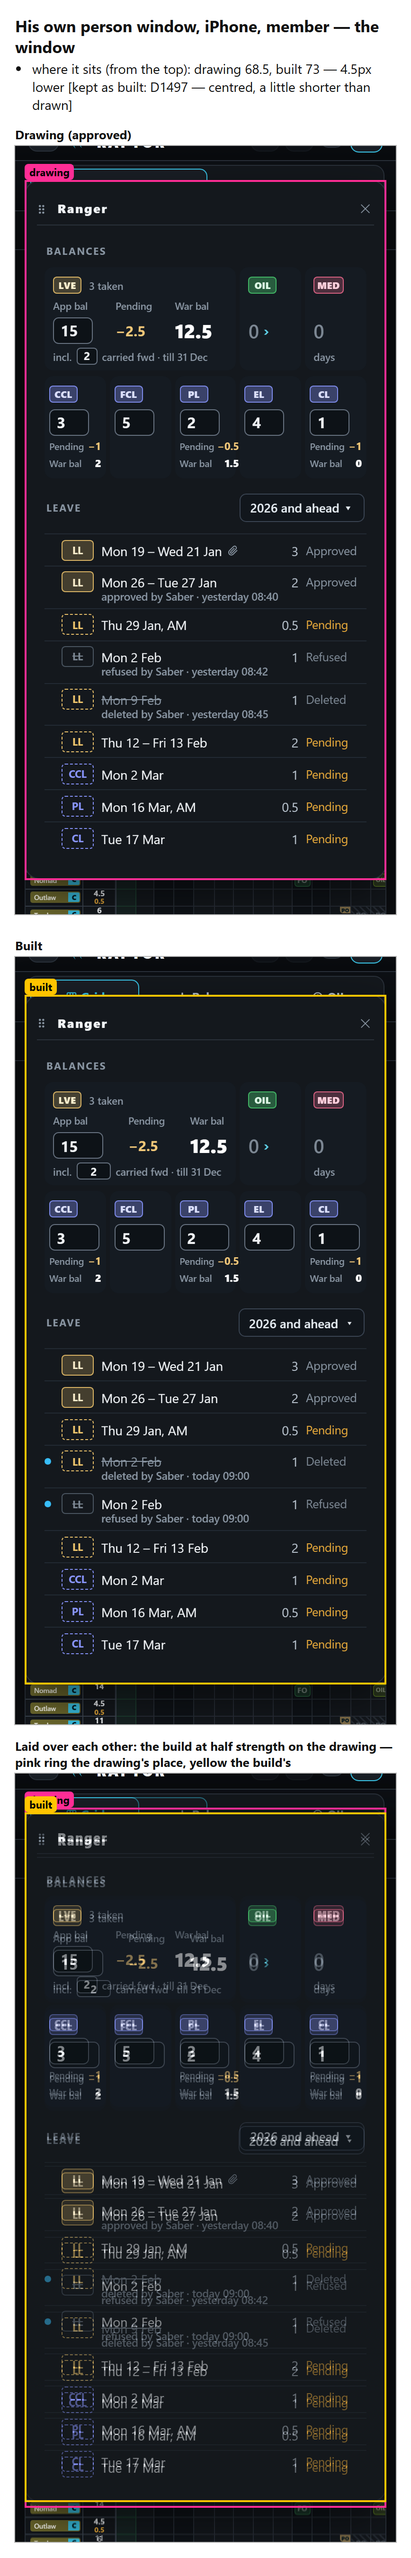
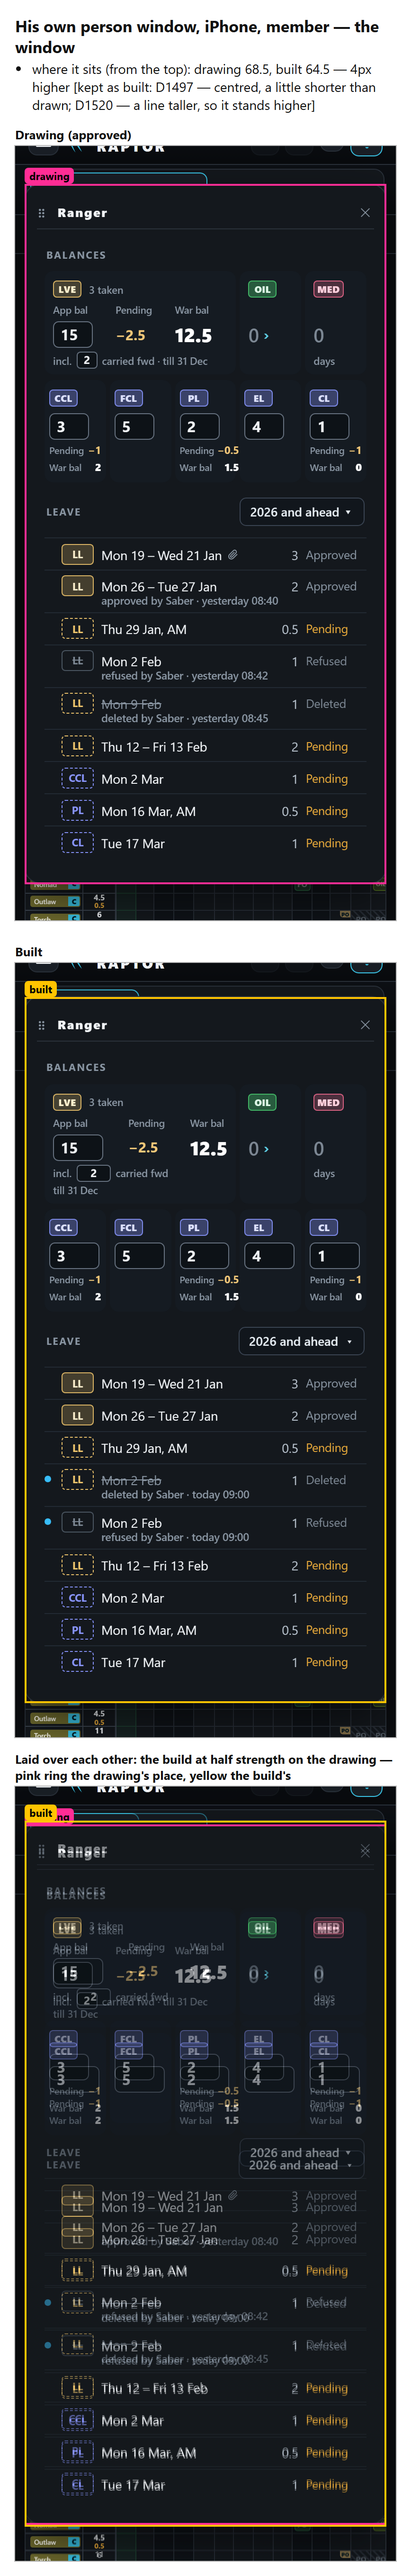
His "a" (D1520): on a phone the person window's carried line puts its date on a line of its own
A desktop keeps the approved one line. Red first in e2e (the date on its own line, both lines inside the
LVE tile at 402 and 375); the drawing check keeps the phone tile's extra line and what moves with it,
naming D1520. [LW-PW-CF-LINE] archived.

diff --git a/raptor-port/e2e/leavewar.spec.ts b/raptor-port/e2e/leavewar.spec.ts
@@ -7903,6 +7903,24 @@ test('on a phone the person window\'s War bal stays inside its LVE tile, the lon
       }, fig)
       expect(over, `${width}: War bal "${fig}" runs past its tile`).toBeLessThanOrEqual(0.5)
     }
+    /* his "a" (D1520): the carried line's date on a line of its own, so neither line runs past the tile */
+    const lines = await page.evaluate(() => {
+      const t = document.querySelector<HTMLElement>('[data-testid="pw-tile-LVE"]')!
+      const edge = t.getBoundingClientRect().right - parseFloat(getComputedStyle(t).paddingRight)
+      const out: Record<string, number | string> = {}
+      for (const sel of ['.r17-cf', '.r17-till']) {
+        const el = t.querySelector<HTMLElement>(sel)
+        if (!el || !el.getClientRects().length) { out[sel] = 'not shown'; continue }
+        const r = document.createRange(); r.selectNodeContents(el)
+        out[sel] = Math.round((r.getBoundingClientRect().right - edge) * 10) / 10
+        out[sel + ' text'] = el.innerText.trim()   // what is shown — the desktop's hidden " · till …" is not
+      }
+      return out
+    })
+    expect(lines['.r17-till text'], `${width}: the date stands on a line of its own`).toMatch(/^till \d+ [A-Z][a-z]{2}$/)
+    expect(String(lines['.r17-cf text']), `${width}: the carried line no longer carries the date`).not.toMatch(/till/)
+    expect(Number(lines['.r17-cf']), `${width}: the carried line runs past its tile`).toBeLessThanOrEqual(0.5)
+    expect(Number(lines['.r17-till']), `${width}: the date runs past its tile`).toBeLessThanOrEqual(0.5)
     await page.getByTestId('pw-close').click()
   }
 })

diff --git a/raptor-port/src/leavewar/ui/personwindow.css b/raptor-port/src/leavewar/ui/personwindow.css
@@ -105,6 +105,17 @@
        tile's left, War bal ends at its right, Pending between, never under 8 apart. A desktop keeps the drawing's 24. */
     /* the tile's one column is the tile's own width, never a longer line's inside it, so the spread reaches the tile's edge */
     @media (max-width: 700px) { .r17-lve { grid-template-columns: minmax(0, 1fr); } .r17-lve .r17-sum { column-gap: 8px; justify-content: space-between; } }
+    /* THE CARRIED LINE'S DATE (his "a", D1520 — drawn as option A, docs/mock/lw-overhaul/lw-cf-line-draw.mjs): a desktop keeps the
+       one line "incl. [n] carried fwd · till <date>"; on a phone the date stands on a fifth row of its own, in the same grey, and
+       the tile is one line taller */
+    /* (the desktop's " · till …" joins the carried words as one run, as it was before the split — no gap of the line's own) */
+    .r17-tw { display: contents; }
+    .r17-till { display: none; }
+    @media (max-width: 700px) {
+      .r17-lve { grid-template-rows: 22px 12px 30px 14px 12px; }
+      .r17-lve .r17-tw { display: none; }
+      .r17-lve .r17-till { display: block; grid-row: 5; font: 600 11px/1 system-ui; color: #8a96a3; white-space: nowrap; }
+    }
     .r17-sum .h { grid-row: 1; font: 600 10.5px/12px system-ui; color: #8a96a3; text-align: left; white-space: nowrap; }
     .r17-sum .v { grid-row: 2; display: flex; align-items: center; justify-content: flex-start; font: 700 15px/1 system-ui; font-variant-numeric: tabular-nums; color: #c9d1d9; }
     .r17-sum .v.pd { color: #F2C879; }

diff --git a/raptor-port/src/leavewar/ui/PersonWindow.tsx b/raptor-port/src/leavewar/ui/PersonWindow.tsx
@@ -217,7 +217,11 @@ export function PersonWindow({ person, since, hasRow, onClose, onOil, onGo }: {
               <span className={`v${L.pending ? ' pd' : ''}`} style={{ gridColumn: 2 }} data-testid="pw-LVE-pend">{pend(L.pending)}</span>
               <span className="v war" style={{ gridColumn: 3 }} data-testid="pw-LVE-war">{figWords(L.war)}</span>
             </div>
-            <span className="r17-cf">incl. {cf} carried fwd{till ? ` · till ${till}` : ''}</span>
+            {/* THE DATE ON A LINE OF ITS OWN ON A PHONE (his "a", D1520 — his picture: "till 31 Dec" ran into the OIL tile): the
+                desktop keeps the approved one line, its " · till …" inside the carried line; a phone shows the line below it
+                instead (personwindow.css). Only one of the two is ever shown, so a screen reader reads the date once */}
+            <span className="r17-cf">incl. {cf} carried fwd{till ? <span className="r17-tw">{` · till ${till}`}</span> : null}</span>
+            {till && <span className="r17-till" data-testid="pw-LVE-till">till {till}</span>}
           </div>
           {/* OIL: read only, "0 ›" his OIL tracker (D1209, D1008) — never a box */}
           <div className="r17-t" data-testid="pw-tile-OIL">

diff --git a/DECISIONS.md b/DECISIONS.md
@@ -70,7 +70,7 @@ ruling, or an explicit no. **Not** ordinary task instructions ("run the tests", 
 | How we work | `.claude/rules/decisions/how-we-work.md` | in EVERY session | D1518, D1509, D1508, D1507, D1496, D1495, D1494, D1478, D1443, D1426, D1424, D1417, D1416, D1415, D1411, D1410, D1409, D1408, D1407, D1363, D1297, D1104, D1103, D1281, D1273, D1271, D1262, D1237, D1222, D1195, D1138, D1134, D1133, D1126, D1127, D1124, D1122, D1097, D1093, D1091, D1090, D1089, D1088, D1087, D1086, D1033, D1024, D994, D991, D976, D975, D974, D973, D972, D971, D970, D969, D942, D941, D926, D921, D906, D905, D904, D903, D902, D895, D887, D886, D885, D884, D878, D876, D874, D872, D871, D870, D869, D868, D867, D853, D852, D850, D847, D846, D835, D832, D822, D821, D820, D819, D813, D812, D808, D802, D811, D790, D787, D785, D775, D774, D766, D765, D761, D754, D726, D672, D667, D625, D623, D611, D610, D608, D607, D602, D601, D596, D595, D590, D588, D587, D568, D541, D499, D495, D493, D491, D490, D489, D487, D486, D485, D473, D466, D465, D453, D353, D351, D350, D349, D348, D347, D390, D343, D302, D228, D203, D201, D106, D90, D162, D148, D147, D144, D143, D141, D140, D138, D137, D136, D151, D89, D87, D86, D84, D78, D73, D72, D70, D69, D68, D67, D63, D62, D60, D59, D58, D57, D56, D54, D53, D29, D23, D22, D17, D16, D14, D13, D12, D11, D10, D9, D8, D7, D6, D5, D4 |
 | Tracker | `.claude/rules/decisions/tracker.md` | when a Tracker file is read (its code, docs, scripts, evidence) | D1406, D1405, D1171, D1170, D1136, D1135, D1132, D1018, D1015, D1014, D1007, D1006, D1005, D1004, D1003, D1002, D992, D989, D988, D987, D986, D985, D984, D983, D982, D981, D980, D979, D924, D922, D899, D801, D566, D564, D560, D474, D464, D462, D463, D377, D376, D375, D374, D373, D372, D371, D370, D191, D158, D157, D134, D132, D131, D130, D129, D128, D127, D126, D124, D123, D122, D121, D120, D64 |
 | People & accounts | `.claude/rules/decisions/people-accounts.md` | when an accounts, sign-in, Admin → Users, Quals, one-door or posting file is read (D390) | D1510, D1108, D1105, D1102, D1101, D1100, D1129, D1128, D1110, D993, D937, D935, D329, D328, D327, D326, D325, D323, D322, D321, D320, D310, D309, D308, D307, D306, D304, D303, D300, D299, D298, D297, D296, D295, D294, D293, D292, D290, D289, D288, D287, D286, D285, D284, D283, D282, D281, D280, D229, D227, D226, D225, D224, D223, D222, D221, D220, D219, D216, D215, D214, D213, D211, D204, D200, D218, D166, D165, D149 |
-| Leave War | `.claude/rules/decisions/leave-war.md` | when a Leave War file is read (its code, docs, e2e, evidence) | D1519, D1517, D1516, D1515, D1514, D1513, D1512, D1511, D1506, D1505, D1504, D1503, D1502, D1501, D1500, D1499, D1498, D1497, D1493, D1492, D1491, D1490, D1489, D1488, D1487, D1486, D1485, D1484, D1483, D1482, D1481, D1480, D1479, D1477, D1476, D1475, D1474, D1473, D1472, D1471, D1470, D1469, D1468, D1467, D1466, D1465, D1464, D1463, D1462, D1461, D1460, D1449, D1448, D1447, D1446, D1445, D1444, D1441, D1440, D1439, D1438, D1437, D1436, D1435, D1434, D1433, D1432, D1431, D1430, D1429, D1428, D1427, D1423, D1422, D1421, D1420, D1404, D1401, D1400, D1399, D1398, D1397, D1395, D1394, D1393, D1392, D1391, D1390, D1389, D1388, D1387, D1382, D1381, D1380, D1379, D1378, D1375, D1371, D1370, D1365, D1364, D1362, D1361, D1360, D1359, D1358, D1357, D1356, D1355, D1354, D1353, D1352, D1351, D1350, D1349, D1348, D1347, D1346, D1345, D1344, D1343, D1341, D1340, D1339, D1334, D1333, D1332, D1331, D1330, D1329, D1328, D1327, D1326, D1323, D1321, D1322, D1319, D1320, D1318, D1316, D1317, D1315, D1314, D1313, D1312, D1311, D1309, D1308, D1307, D1306, D1302, D1301, D1299, D1296, D1295, D1294, D1292, D1291, D1290, D1289, D1288, D1287, D1286, D1285, D1284, D1283, D1282, D1279, D1278, D1277, D1276, D1275, D1274, D1272, D1270, D1269, D1268, D1267, D1266, D1265, D1264, D1263, D1259, D1258, D1257, D1256, D1255, D1254, D1253, D1252, D1251, D1250, D1249, D1248, D1247, D1246, D1245, D1244, D1243, D1242, D1241, D1240, D1239, D1238, D1236, D1235, D1234, D1233, D1232, D1231, D1230, D1229, D1228, D1227, D1226, D1225, D1224, D1223, D1221, D1220, D1219, D1218, D1217, D1216, D1215, D1214, D1213, D1212, D1211, D1210, D1209, D1208, D1206, D1205, D1204, D1203, D1202, D1201, D1200, D1199, D1198, D1197, D1196, D1194, D1193, D1192, D1191, D1190, D1189, D1188, D1187, D1186, D1185, D1184, D1183, D1182, D1181, D1180, D1178, D1177, D1176, D1175, D1174, D1173, D1172, D1169, D1168, D1167, D1166, D1165, D1164, D1163, D1162, D1161, D1160, D1159, D1158, D1157, D1155, D1154, D1153, D1152, D1151, D1150, D1149, D1148, D1147, D1146, D1145, D1144, D1143, D1142, D1141, D1140, D1117, D1019, D1016, D1001, D1000, D998, D892, D891, D890, D883, D882, D881, D827, D823, D805, D679, D678, D677, D676, D674, D673, D670, D669, D461, D460, D418, D352, D335, D334, D333, D332, D331, D266, D265, D264, D262, D160, D159 |
+| Leave War | `.claude/rules/decisions/leave-war.md` | when a Leave War file is read (its code, docs, e2e, evidence) | D1520, D1519, D1517, D1516, D1515, D1514, D1513, D1512, D1511, D1506, D1505, D1504, D1503, D1502, D1501, D1500, D1499, D1498, D1497, D1493, D1492, D1491, D1490, D1489, D1488, D1487, D1486, D1485, D1484, D1483, D1482, D1481, D1480, D1479, D1477, D1476, D1475, D1474, D1473, D1472, D1471, D1470, D1469, D1468, D1467, D1466, D1465, D1464, D1463, D1462, D1461, D1460, D1449, D1448, D1447, D1446, D1445, D1444, D1441, D1440, D1439, D1438, D1437, D1436, D1435, D1434, D1433, D1432, D1431, D1430, D1429, D1428, D1427, D1423, D1422, D1421, D1420, D1404, D1401, D1400, D1399, D1398, D1397, D1395, D1394, D1393, D1392, D1391, D1390, D1389, D1388, D1387, D1382, D1381, D1380, D1379, D1378, D1375, D1371, D1370, D1365, D1364, D1362, D1361, D1360, D1359, D1358, D1357, D1356, D1355, D1354, D1353, D1352, D1351, D1350, D1349, D1348, D1347, D1346, D1345, D1344, D1343, D1341, D1340, D1339, D1334, D1333, D1332, D1331, D1330, D1329, D1328, D1327, D1326, D1323, D1321, D1322, D1319, D1320, D1318, D1316, D1317, D1315, D1314, D1313, D1312, D1311, D1309, D1308, D1307, D1306, D1302, D1301, D1299, D1296, D1295, D1294, D1292, D1291, D1290, D1289, D1288, D1287, D1286, D1285, D1284, D1283, D1282, D1279, D1278, D1277, D1276, D1275, D1274, D1272, D1270, D1269, D1268, D1267, D1266, D1265, D1264, D1263, D1259, D1258, D1257, D1256, D1255, D1254, D1253, D1252, D1251, D1250, D1249, D1248, D1247, D1246, D1245, D1244, D1243, D1242, D1241, D1240, D1239, D1238, D1236, D1235, D1234, D1233, D1232, D1231, D1230, D1229, D1228, D1227, D1226, D1225, D1224, D1223, D1221, D1220, D1219, D1218, D1217, D1216, D1215, D1214, D1213, D1212, D1211, D1210, D1209, D1208, D1206, D1205, D1204, D1203, D1202, D1201, D1200, D1199, D1198, D1197, D1196, D1194, D1193, D1192, D1191, D1190, D1189, D1188, D1187, D1186, D1185, D1184, D1183, D1182, D1181, D1180, D1178, D1177, D1176, D1175, D1174, D1173, D1172, D1169, D1168, D1167, D1166, D1165, D1164, D1163, D1162, D1161, D1160, D1159, D1158, D1157, D1155, D1154, D1153, D1152, D1151, D1150, D1149, D1148, D1147, D1146, D1145, D1144, D1143, D1142, D1141, D1140, D1117, D1019, D1016, D1001, D1000, D998, D892, D891, D890, D883, D882, D881, D827, D823, D805, D679, D678, D677, D676, D674, D673, D670, D669, D461, D460, D418, D352, D335, D334, D333, D332, D331, D266, D265, D264, D262, D160, D159 |
 | Scheduler & amendments | `.claude/rules/decisions/scheduler.md` | when a scheduler, board, engine, amendment or storage file is read | D1442, D1412, D1383, D1107, D1106, D1099, D1098, D1131, D1130, D1121, D1120, D1119, D1118, D1116, D1115, D1114, D1113, D1112, D1111, D1109, D1085, D1084, D1083, D1081, D1080, D1067, D1066, D1065, D1064, D1063, D1062, D1061, D1060, D1048, D1047, D1046, D1045, D1044, D1043, D1042, D1041, D1040, D1039, D1038, D1037, D1036, D1035, D1034, D1032, D1031, D1030, D1029, D1028, D1027, D1026, D1021, D1020, D1017, D1013, D1012, D1011, D1010, D1009, D997, D995, D958, D957, D955, D950, D949, D947, D945, D940, D938, D936, D933, D932, D931, D929, D928, D925, D901, D877, D860, D845, D844, D842, D841, D840, D839, D838, D837, D836, D834, D833, D831, D830, D828, D825, D824, D815, D809, D807, D806, D800, D797, D796, D776, D769, D778, D767, D762, D760, D759, D757, D756, D755, D753, D751, D748, D747, D743, D742, D740, D739, D737, D736, D735, D734, D733, D731, D717, D714, D713, D711, D710, D706, D703, D702, D686, D682, D716, D668, D665, D663, D661, D660, D645, D644, D642, D641, D640, D637, D636, D634, D605, D603, D600, D599, D598, D597, D594, D562, D561, D558, D555, D554, D553, D551, D550, D548, D546, D544, D537, D535, D532, D531, D530, D529, D527, D526, D525, D524, D523, D522, D521, D520, D519, D518, D517, D516, D514, D513, D512, D511, D510, D509, D507, D506, D505, D504, D503, D502, D501, D500, D498, D497, D488, D482, D481, D479, D478, D475, D472, D471, D469, D454, D452, D451, D450, D356, D355, D367, D363, D362, D361, D360, D346, D345, D344, D340, D339, D338, D337, D279, D278, D277, D276, D275, D274, D272, D271, D270, D263, D212, D189, D188, D187, D186, D185, D184, D183, D179, D178, D177, D176, D175, D174, D172, D171, D170, D169, D168, D167, D119, D118, D117, D116, D114, D113, D111, D110, D109, D107, D105, D103, D102, D101, D100, D99, D98, D97, D96, D95, D94, D93, D92, D91, D161, D77, D66, D65, D51, D50, D47, D45, D44, D41, D40, D39, D38, D37, D36, D33, D27 |
 | The Inputs pages | `.claude/rules/decisions/inputs.md` | when a file of the Inputs list or calendar, the SANS calendar, the Calendar window, or an input's own window or card is read | D1413, D1396, D1386, D1385, D1384, D1377, D1376, D1374, D1373, D1372, D1369, D1368, D1367, D1310, D1305, D1304, D1300, D1298, D1293, D1280, D1179, D1139, D1137, D1125, D1123, D1096, D1095, D1025, D1023, D1022, D999, D996, D977, D968, D967, D965, D963, D961, D960, D959, D953, D952, D948, D927, D920, D919, D917, D916, D910, D909, D908, D900, D897, D893, D879, D861, D854, D851, D849, D848, D795, D792, D786, D777, D773, D771, D770, D768, D763, D732, D729, D728, D727, D725, D724, D723, D722, D721, D720, D719, D712, D709, D707, D705, D704, D701, D698, D697, D696, D695, D694, D693, D692, D691, D689, D688, D687, D685, D684, D683, D681, D675, D671, D664, D659, D658, D657, D656, D655, D653, D652, D651, D650, D649, D648, D647, D646, D639, D638, D635, D633, D632, D631, D630, D629, D628, D627, D626, D624, D622, D621, D620, D619, D618, D617, D584, D583, D582, D581, D577, D576, D574, D572, D570, D569, D547, D364 |
 | OIL | `.claude/rules/decisions/oil.md` | when an OIL, Leave War, placeholder-puck or publishing file is read | D1094, D1008, D978, D923, D865, D863, D862, D818, D816, D814, D804, D793, D783, D782, D781, D606, D592, D591, D470, D402, D401, D400, D261, D260, D163, D142, D82, D81, D80, D79, D52, D49, D48, D43, D42, D35, D32, D31, D28, D26, D25, D24, D21, D19, D15, D2, D1 |

diff --git a/OUTSTANDING.md b/OUTSTANDING.md
@@ -108,7 +108,6 @@ Every item was checked against git and the code on 18 Oct 26. **Re-order this li
 - [INP-ADD-RIGHT] — the Inputs list's "+ Input" on a desktop at the right where its window opens, as "+ Medical" now is (D1300's reading, lesson 47) — his choice, with a picture.
 - [LW-OPENDATES-X-SIZE] — on a phone the "Open for bidding" page's ✕ is 18 × 17, under a finger's size — seen by M3's follow-up walk.
 - [LW-MORE-BELOW-CUE] — the day panel says how many more are below its foot ("↓ 10 more") when its list runs past it (his D1295); its look drawn first.
-- [LW-PW-CF-LINE] — the person window's "incl. 0 carried fwd · till 31 Dec" runs past its LVE tile on his iPhone: A (the date on its own line, recommended) or B (one line, "carried") put to him 29 Oct 26 — his answer, then the build (the War bal spread is built, `claude/lw-bal-header-gap`).
 - [PINNED-LEAK-SWEEP] — D1518's other pinned parts, named not changed: each checked zoomed in and out and scrolled, on the iPhone's engine, with a forced spill, when its screen is next worked on.
 - [LW-OVERHAUL] — the Leave War's overhaul (D1140): M1–M4 live (pull requests 566, 567, 569, 581; follow-ups 571–573, 582); M5 PLANNED 28 Oct 26 (`raptor-port/docs/superpowers/plans/2026-10-28-lw-m5-plan.md`) — its four rules and the split answered 28 Oct 26 (D1472–D1475: M5a, balances, then M5b); M5a's drawings all answered 28 Oct 26 (D1479–D1489); M5a built and FULL-checked the night of 28–29 Oct 26 and live on his "merge live" of 29 Oct 26 (pull request 586; his drawing picks D1493; left for his iPhone: a tapped box above the keys, no page zoom on a tap, the number keys' minus, the slide and pinch, My leave with three figures, the "Saving…" note); next, M5b in a fresh chat (D1475) — its drawings in the app's own design (D1496) and its build run through the drawing check (D1495, walk-scripts §10). **M5b round 1 drawn 29 Oct 26** on `claude/leave-war-m5b-iphone-balances-1402b7` (`full-m5b-draw.mjs`, pictures `full/m5b/`): the Settings window, the Events list, holidays by file with its preview, Management on Quals — four questions on https://claude.ai/artifact/F8PHq6k2bTBMS3ukL8qykH, **answered 29 Oct 26 "All as recommended" (D1499 Settings, D1500 the Events list, D1501 holidays by file — public holidays and Off days only, D1502 Management already on Quals)**; **M5b's build spec written and M5b built 29 Oct 26** (`raptor-port/docs/superpowers/plans/2026-10-29-lw-m5b-build-spec.md`; the drawing check green, 10 states); FULL-checked (`raptor-port/docs/handpass/2026-10-29-lw-m5b.md`); then D1510 and the Events list's split (D1512–D1517) built and checked (§10, §11); **all live on his "merge live" of 29 Oct 26 (pull request 588)**. All six of D1250's merges are live (M5b the last — D1475); the rulings files' tripwires raised 29 Oct 26 (D1262). Left: what his iPhone look owes M5a (above) and the overhaul's own leftover items in this list.
 - [LW-EVENTS-LANE] — parked: a better way to show the Leave War's events (round 21's study, B an events lane recommended) — not put to him until he raises it (D1259).
@@ -321,17 +320,6 @@ Found by the walkers of `raptor-port/docs/handpass/2026-10-25-lw-night.md` (repo
 
 ### [LW-PICK-HELD-MARK] The tapped day stays marked and in view while its bid window is open (his D1289, D1290 — 24 Oct 26, his look at pull request 569)
 **What:** on the Leave War a day tapped to open its bid window wears the grid's cyan selection mark (`matrix.css .selcell`, the drag-selection's look) until the window closes or the leave is placed (D1289); on a phone, when the window opens over what was picked, the grid scrolls so it stands just above the window (D1290). **And his question the same message:** can the one-day bid window be less tall — put to him with pictures of ways to do it, each naming the ruling it would change (D1144's day line, D1212's rows). **Place:** with the M3 follow-ups on `claude/lw-m3-placing-leave` (pull request 569), after his answer on the pictures; the design guide's lesson 45.
-
-### [LW-PW-CF-LINE] The person window's carried-forward line runs past its tile on a phone (29 Oct 26)
-**His picture (29 Oct 26 — "dec word is exiting the the box can u design something better"):** in Saber's window the LVE tile's
-"incl. [0] carried fwd · till 31 Dec" runs into the OIL tile — measured 6 to 10 points too long at his 402, 17 and more at 375
-(`raptor-port/docs/mock/lw-overhaul/lw-cf-line-draw.mjs`, a letter stand-in calibrated on his picture). **Put to him** on
-https://claude.ai/artifact/4x9nJqMPgQUK8YKHyV7wqH (question 1): **A, recommended** — the date on a line of its own under "incl. [0] carried fwd", the top row of tiles
-16 points taller, fitting at every width measured, Verdana included; **B** — one line, "incl. [0] carried · till 31 Dec", no
-extra height, only just inside at 375 and past the tile in wider letters. **Built already (the agent's fault fix, D1426):**
-on a phone App bal · Pending · War bal spread across the tile, so War bal ("17.5", "−12.5") never runs under OIL
-(`ui/personwindow.css`, pinned by `e2e/leavewar.spec.ts` "War bal stays inside its LVE tile"). **To do:** build his pick
-(phone only — a desktop keeps the approved drawing, D1478), its picture beside the drawing, the drawing check. Ruling then.
 
 ### [PINNED-LEAK-SWEEP] Every pinned part checked for a leak, zoomed and scrolled (29 Oct 26 — D1518)
 **His rule (D1518, design lesson 72):** nothing pinned shows what scrolls behind it, at any zoom or scroll. The Balances

diff --git a/HANDOFF.md b/HANDOFF.md
@@ -22,14 +22,14 @@ the later merge keeps both (D78).
 ## Now
 <!-- now:claude/lw-bal-header-gap -->
 ### `claude/lw-bal-header-gap` — his three iPhone finds on the Leave War (29 Oct 26): the gap behind the Balances bar, "Type a figure" that stayed, the person window's LVE tile — written 29 Oct 26 — verify before use
-- **Done:** the Balances page's bar, lock line and search line solid and above the list, the list's paint held in its box (D1518, D1519); any typing clears a figure box's words (the same figure typed after a fresh tap left them); on a phone the person window's App bal · Pending · War bal spread across the LVE tile, so War bal never runs under OIL. Design lesson 72 (D1518), §7.11 lessons 15–16. Evidence: `raptor-port/docs/handpass/2026-10-29-lw-bal-gap.md` (WALK).
+- **Done:** the Balances page's bar, lock line and search line solid and above the list, the list's paint held in its box (D1518, D1519); any typing clears a figure box's words (the same figure typed after a fresh tap left them); on a phone the person window's App bal · Pending · War bal spread across the LVE tile, so War bal never runs under OIL, and the carried line's date stands on a line of its own (his "a", D1520). Design lesson 72 (D1518), §7.11 lessons 15–16. Evidence: `raptor-port/docs/handpass/2026-10-29-lw-bal-gap.md` (WALK).
 - **Branch:** `claude/lw-bal-header-gap`, cut from `main` after pull request 589, no upstream until its first push (`push.default=upstream` trap). Changes the app, so it waits for his "merge live".
 - **Gates:** `ui/balances.test.tsx` and `ui/personwindow.test.tsx` green; `e2e/leavewar.spec.ts` Balances / person window / pinned / M5a 33 passed (19 phone-only skipped on desktop); the build; the drawing check green on M5a, M5b and the Events list. GitHub's run of the pull request is the full check (D1086).
-- **Open questions for him:** [LW-PW-CF-LINE] — the carried line, A (date on its own line, recommended) or B (one line, "carried"), on https://claude.ai/artifact/4x9nJqMPgQUK8YKHyV7wqH; and his iPhone look at the bar and the warning (the page's second card). Kept for him until he says so (D994): `[SYSTEM-PASS-SAVES-ROSTER]`, `[QUALS-COL-WAR-GROUP-ASK]`, `[LINE-ICONS-ELSEWHERE-ASK]`.
+- **Open questions for him:** none. His iPhone look is owed: the bar while he pinches and scrolls, the warning, the leave box (https://claude.ai/artifact/4x9nJqMPgQUK8YKHyV7wqH). Kept for him until he says so (D994): `[SYSTEM-PASS-SAVES-ROSTER]`, `[QUALS-COL-WAR-GROUP-ASK]`, `[LINE-ICONS-ELSEWHERE-ASK]`.
 - **Reads:** one fresh, blind Opus reader of design lesson 72, §7.11 lessons 15–16 and D1518, D1519 (D941, D1297): lessons 15–16 OK; four wordings fixed as it gave them (the band is through the bar, not between; D1518 keeps to his words; D1519 names the right cause; lesson 16 marks the walk's own point). No code read (WALK).
 - **Running when written:** none; the check lock is free.
-- **Pick up here:** on his A or B, build it on this branch (phone only, `ui/personwindow.css` and `PersonWindow.tsx`'s `r17-cf` line; the mock `docs/mock/lw-overhaul/lw-cf-line-draw.mjs` has both), a picture beside the drawing, the drawing check, then his "merge live". His Days taken questions were answered in the chat (it is worked out from approved leave over the period in View, nothing stored or reset).
-- **Opening line:** Switch this chat to the branch `claude/lw-bal-header-gap`: `git fetch origin`, `git switch claude/lw-bal-header-gap`, `git pull --ff-only`. Read `HANDOFF.md` — the `claude/lw-bal-header-gap` block under `## Now` — and carry on with his answer to [LW-PW-CF-LINE].
+- **Pick up here:** his iPhone look, then his "merge live" (GitHub's run of pull request 590 green first). Next after it: his pick from the Leave War's own items in the priority list. His Days taken questions were answered in the chat (it is worked out from approved leave over the period in View, nothing stored or reset).
+- **Opening line:** Switch this chat to the branch `claude/lw-bal-header-gap`: `git fetch origin`, `git switch claude/lw-bal-header-gap`, `git pull --ff-only`. Read `HANDOFF.md` — the `claude/lw-bal-header-gap` block under `## Now` — and carry on from his look at pull request 590.
 <!-- /now -->
 ## Next, in order
 

diff --git a/.claude/decisions-full/leave-war.md b/.claude/decisions-full/leave-war.md
@@ -8,6 +8,7 @@ change tail. Newest first; each row keeps the date it was recorded.
 
 | # | Date | His ruling, in his words where short enough | What it means | Where it lives now |
 |---|---|---|---|---|
+| D1520 | 29 Oct 26 | *"a"* — to question 1 on his leave-box page (where "till 31 Dec" goes in a person's window; A recommended: the date on its own line; B: one line, "carried") | **On a phone the person window's LVE tile shows "till <date>" on a line of its own under "incl. [n] carried fwd", in the same grey, so the line never runs past the tile; a desktop keeps the approved one line, "incl. [n] carried fwd · till <date>".** The agent's reading, from the page he answered: phone only (up to 700 wide, the window's phone rule), the tile's top row one line taller there; the War bal spread built with D1519's job stands with it. Lives in `raptor-port/docs/ui-contracts.md` §The person window (D1520) and `raptor-port/src/leavewar/ui/personwindow.css`. | `raptor-port/docs/ui-contracts.md` §The person window (D1520) |
 | D1519 | 29 Oct 26 | *"U see this gap. I don’t like to see it. Make sure at all zooms or scroll I don’t see it"* — his iPhone picture of the Balances page zoomed out, the boxes of a row showing through the foot of the bar (Balances · Days taken · the magnifier), in a thin band just above the column headings, the same leak D1505 was meant to close | **On a phone the Leave War's Balances page shows nothing of its rows behind or through its bar, or between it and its row of column headings — at every zoom and every scroll position, at rest and while the fingers move; D1505's fix, checked only in test browsers that never drew the spill, is redone so it holds at all of them.** Checked on the iPhone's own browser engine, zoomed out and in, scrolled. Lives in `raptor-port/docs/ui-contracts.md` §The Leave War's Balances page (D1519) and `raptor-port/src/leavewar/ui/balances.css`. | `raptor-port/docs/ui-contracts.md` §The Leave War's Balances page (D1519) |
 | D1517 | 29 Oct 26 | *"Merge live"* — to his M5b page, which put the built Events list to his look and, as its question 2, the one width his drawing did not cover (recommended: keep as built) | **Between a phone and a desktop — up to 1100 wide, an iPad or a narrow window — the Leave War's Events list keeps its one-list width and its two lists stand one under the other, as on a phone; above 1100 they stand side by side in the window twice as wide.** The agent's reading: his "merge live" to the page that recommended keeping it is his yes to that recommendation (two lists side by side there left a name no room and cut the ✕ off — the fresh code read's R1); the note over the window's foot on a desktop, drawn so in his approved frames, stays as drawn. | `raptor-port/docs/ui-contracts.md` §The Leave War's Events list (D1517) |
 | D1516 | 29 Oct 26 | *"As recommended"* — to questions 4 and 5 on his M5b page and the redraw put to him for one last look (question 4 recommended: Squadron events first; question 5 recommended: the ✕ asks once, as drawn) | **The Leave War's Events list is built as redrawn on 29 Oct 26: Squadron events first (on a desktop the left list, on a phone the top one), then Holidays; the ✕ asks once — its first press arms it, a second deletes.** The drawing of record is the mock-up script's F- frames (`raptor-port/scripts/handpass/mock-events-split.mjs`, pictures `raptor-port/docs/mock/lw-overhaul/full/m5b/events-split/plain/`), with the sections in this order. The agent's reading: the redraw approved with it ("As recommended" to the page that put it for a last look). | `raptor-port/docs/ui-contracts.md` §The Leave War's Events list (D1516); `OUTSTANDING.md` [LW-OVERHAUL] (M5b's leftovers — to build) |

diff --git a/OUTSTANDING-ARCHIVE.md b/OUTSTANDING-ARCHIVE.md
@@ -6962,3 +6962,17 @@ On a phone and a desktop, a period picked with the View picker while the Approva
 ### [LW-BAL-PHONE-LOCKED-FIT] The iPhone's locked Balances page back to its drawing (his D1497 — 29 Oct 26)
 **29 Oct 26 — the 10px fixed, red first** (`claude/leave-war-m5b-iphone-balances-1402b7`, commit 3d2a069c4; `raptor-port/docs/handpass/2026-10-29-lw-bal-phone-locked-fit.md`): a read-only figure on the phone keeps the drawing's 10px at its right; the drawing check on all ten M5a states leaves only the row's 6px. **The 6px is the drawing's own fault:** both member drawings lay the page over the bottom 6px of the View row (the period picker's and My leave's bottom edges cut, in the approved sheet `m5c-c2-phones` too); put to him as question A on https://claude.ai/artifact/F8PHq6k2bTBMS3ukL8qykH — **answered 29 Oct 26, keep it as built (D1498)**: kept in `specs/lw-m5a.mjs`'s list at 483.5; the check is green. Done but for going live with pull request 588. **Place:** a small Leave War fix, with M5b or on its own — his choice of timing. **What:** on a member's locked Balances page on a phone, Ranger's read-only figures (App bal 15, CCL 3 — the two measured) stand flush with their column's right edge, 10px right of the drawing's; the page told him it shows on every row, and that the other figures do the same is the agent's reading, checked at the fix (`m5c-c2-phone-locked`, recorded in `raptor-port/docs/mock/lw-overhaul/drawcheck/m5a/balances-phone-locked.json`), and Ranger's row stands 6px lower than drawn — what above it adds the 6px was not looked into. **Done when:** `node scripts/drawcheck/check.mjs scripts/drawcheck/specs/lw-m5a.mjs --dist dist --states balances-phone-locked` is green on those parts (D1495), and the walk's phone pictures of the locked page are opened. **Found:** by the drawing check's run on live M5a (`raptor-port/docs/img/handpass/2026-10-29-drawcheck-m5a-live/report.md`), 29 Oct 26.
 
+
+*Moved here 2026-10-29 by backlog-archive.mjs ([LW-PW-CF-LINE]). Forward facts: `raptor-port/docs/ui-contracts.md`.*
+
+### [LW-PW-CF-LINE] The person window's carried-forward line runs past its tile on a phone (29 Oct 26)
+**His picture (29 Oct 26 — "dec word is exiting the the box can u design something better"):** in Saber's window the LVE tile's
+"incl. [0] carried fwd · till 31 Dec" runs into the OIL tile — measured 6 to 10 points too long at his 402, 17 and more at 375
+(`raptor-port/docs/mock/lw-overhaul/lw-cf-line-draw.mjs`, a letter stand-in calibrated on his picture). **Put to him** on
+https://claude.ai/artifact/4x9nJqMPgQUK8YKHyV7wqH (question 1): **A, recommended** — the date on a line of its own under "incl. [0] carried fwd", the top row of tiles
+16 points taller, fitting at every width measured, Verdana included; **B** — one line, "incl. [0] carried · till 31 Dec", no
+extra height, only just inside at 375 and past the tile in wider letters. **Built already (the agent's fault fix, D1426):**
+on a phone App bal · Pending · War bal spread across the tile, so War bal ("17.5", "−12.5") never runs under OIL
+(`ui/personwindow.css`, pinned by `e2e/leavewar.spec.ts` "War bal stays inside its LVE tile"). **To do:** build his pick
+(phone only — a desktop keeps the approved drawing, D1478), its picture beside the drawing, the drawing check. Ruling then.
+

diff --git a/raptor-port/docs/file-map.md b/raptor-port/docs/file-map.md
@@ -1,6 +1,6 @@
 # The file map — where each source file lives and what it does
 
-29 Oct 26 on `claude/lw-bal-header-gap` (his three iPhone finds — D1518, D1519). **New:** `scripts/handpass/lw-bal-gap-probe.mjs` (the Balances bar and headings at every zoom and scroll in WebKit), `scripts/handpass/lw-bal-gap-pinch.mjs` (a two-finger pinch in WebKit, by touch events), `scripts/handpass/lw-bal-spill-calib.mjs` (the list forced to draw under the bar — red before the fix), `scripts/handpass/lw-typefig-walk.mjs` (a figure box after "Type a figure", on three surfaces), `docs/mock/lw-overhaul/lw-cf-line-draw.mjs` (the person window's carried line, options A and B, measured in three letter widths). **Changed:** `src/leavewar/ui/balances.css` (the bar and the lines under it solid and over the list; the list's paint held in its box), `ui/BalancesPage.tsx` (any typing clears a box's words), `ui/personwindow.css` (on a phone the LVE tile's three figures spread across it), `ui/balances.test.tsx`, `e2e/leavewar.spec.ts`.
+29 Oct 26 on `claude/lw-bal-header-gap` (his three iPhone finds — D1518, D1519). **New:** `scripts/handpass/lw-bal-gap-probe.mjs` (the Balances bar and headings at every zoom and scroll in WebKit), `scripts/handpass/lw-bal-gap-pinch.mjs` (a two-finger pinch in WebKit, by touch events), `scripts/handpass/lw-bal-spill-calib.mjs` (the list forced to draw under the bar — red before the fix), `scripts/handpass/lw-typefig-walk.mjs` (a figure box after "Type a figure", on three surfaces), `docs/mock/lw-overhaul/lw-cf-line-draw.mjs` (the person window's carried line, options A and B, measured in three letter widths). **Changed:** `src/leavewar/ui/balances.css` (the bar and the lines under it solid and over the list; the list's paint held in its box), `ui/BalancesPage.tsx` (any typing clears a box's words), `ui/personwindow.css` (on a phone the LVE tile's three figures spread across it; the carried line's date on a line of its own — D1520), `ui/PersonWindow.tsx` (`r17-till`), `ui/balances.test.tsx`, `e2e/leavewar.spec.ts`, `scripts/drawcheck/specs/lw-m5a.mjs` (D1520's kept differences). **New too:** `scripts/handpass/lw-pw-till-shots.mjs` (the built leave box on a phone and a desktop).
 
 29 Oct 26 on `claude/leave-war-m5b-iphone-balances-1402b7` (his keyboard readout — the Tracker's Flex settings). **New:** `scripts/handpass/kb-origin-walk.mjs` (every window placed by hand stands where it stood with no keys up, before and after); `scripts/handpass/lw-m5b-look-walk.mjs` (his look's OIL and ⚙ routes). **Changed:** `src/ui/kbscroll.ts` (`fixedOrigin` — where the screen's own top-left stands in the slid measure), `src/tracker/components/FlexSettings.jsx`, `Legend.jsx`, `Header.jsx`, `src/ui/topbits.tsx`, `src/ui/OilWaitSheet.tsx`, `src/ui/SaveStatus.tsx` (each placed in the screen's own measure), `src/tracker/trk-flex-setting.test.tsx`.
 

diff --git a/raptor-port/docs/img/handpass/2026-10-29-drawcheck-bal-gap-lw-m5a/report.md b/raptor-port/docs/img/handpass/2026-10-29-drawcheck-bal-gap-lw-m5a/report.md
@@ -1,8 +1,8 @@
 # Drawing check — Leave War M5a
 
-Build: `C:\Users\User\projects\Raptor\.claude\worktrees\lw-rulings-tripwire-1707d1\raptor-port\dist` · run 29 Oct 2026, 22:29 · tolerance 2px
+Build: `C:\Users\User\projects\Raptor\.claude\worktrees\lw-rulings-tripwire-1707d1\raptor-port\dist` · run 29 Oct 2026, 22:54 · tolerance 2px
 
-**GREEN** — 0 difference(s) unexplained, 24 kept as built by his ruling, 0 screen(s) not checked.
+**GREEN** — 0 difference(s) unexplained, 27 kept as built by his ruling, 0 screen(s) not checked.
 
 ## The person window, desktop, admin (`person-desk`, 1536 × 864 at 1.25)
 
@@ -34,11 +34,11 @@ Drawing: `docs/mock/lw-overhaul/full-m5a-person.mjs` → `m5a-p4-phone-own.png` 
 
 | Part | Difference | Drawing | Built | |
 |---|---|---|---|---|
-| the window | where it sits (from the top) — 4.5px lower | 68.5 | 73 | kept as built: D1497 — centred, a little shorter than drawn · [picture](person-phone--window.png) |
+| the window | where it sits (from the top) — 4px higher | 68.5 | 64.5 | kept as built: D1497 — centred, a little shorter than drawn; D1520 — a line taller, so it stands higher · [picture](person-phone--window.png) |
 | the window's title bar | matches | | | |
-| the LVE tile | matches | | | |
-| the year picker | matches | | | |
-| the first leave line | matches | | | |
+| the LVE tile | its height — 17px more | 109 | 126 | kept as built: D1520 — the carried line's date on a line of its own · [picture](person-phone--lve-tile.png) |
+| the year picker | where it sits (from the top of window) — 17px lower | 331.5 | 348.5 | kept as built: D1520 — under the tile a line taller · [picture](person-phone--year.png) |
+| the first leave line | where it sits (from the top of window) — 17px lower | 373.5 | 390.5 | kept as built: D1520 — under the tile a line taller · [picture](person-phone--leave-line.png) |
 | the first leave line's leave box | matches | | | |
 | the first leave line's dates | matches | | | |
 | the first leave line's 'Approved' | matches | | | |

diff --git a/raptor-port/docs/handpass/2026-10-29-lw-bal-gap.md b/raptor-port/docs/handpass/2026-10-29-lw-bal-gap.md
@@ -1,7 +1,7 @@
 # Bug check — his three iPhone finds on the Leave War, 29 Oct 26 (`claude/lw-bal-header-gap`)
 
-**Questions waiting for him:** the person window's carried-forward line, A or B — https://claude.ai/artifact/4x9nJqMPgQUK8YKHyV7wqH
-question 1 ([LW-PW-CF-LINE]); and his iPhone look at the bar and the warning (the page's second card).
+**Questions waiting for him:** none — he answered the carried line "a" (D1520), built (§D1520 below). **His look owed:** on his
+iPhone, the bar while he pinches and scrolls, and the person window's leave box (https://claude.ai/artifact/4x9nJqMPgQUK8YKHyV7wqH).
 
 ## What he found (three pictures, 21:54 to 22:06)
 1. **The gap (D1518, D1519):** on the Balances page, zoomed out, the boxes' bottom edges of the row above Saber's showed in
@@ -84,6 +84,15 @@ check (D1086).
 
 ## Reads
 WALK: no code read required. One fresh reader for the lessons written (design lesson 72; §7.11 lessons 15, 16 — D941, D1297).
+
+## D1520 — his "a", built the same evening
+`PersonWindow.tsx`: the date in its own `r17-till` line and, inside the carried line, `r17-tw` (" · till …"); `personwindow.css`:
+a desktop shows the one line (`r17-tw` joins the carried words, `r17-till` hidden), a phone the fifth row (`r17-tw` hidden).
+Red first: `e2e/leavewar.spec.ts` "War bal stays inside its LVE tile" now also asks for the date on a line of its own and both
+lines inside the tile at 402 and 375 — failed before, passes after (33 passed with the rest). The drawing check: the phone's
+tile 17 taller, the year and leave line 17 lower, the centred window 4 higher — kept with D1520 named (`specs/lw-m5a.mjs`); the
+desktop window shows no difference; green. Pictures: `scripts/handpass/lw-pw-till-shots.mjs` — WebKit 402 and 375 by touch, the
+date on its own line inside the tile; Chromium 1536 at 1.25, the one line as approved, the date once.
 
 ## Walk:
 Walk: 5 scripts, WebKit 402 + 375 by touch, Chromium 1536 at 1.25 by mouse, admin and member; the bar at 96 states, a pinch in 3

diff --git a/.claude/rules/decisions/leave-war.md b/.claude/rules/decisions/leave-war.md
@@ -56,6 +56,7 @@ rules — `raptor-port/docs/superpowers/specs/2026-09-20-one-absence-behaviour-r
 
 | # | Date | The rule |
 |---|---|---|
+| D1520 | 29 Oct 26 | On a phone the person window's LVE tile shows "till <date>" on a line of its own under "incl. [n] carried fwd", in the same grey, so the line never runs past the tile; a desktop keeps the approved one line, "incl. [n] carried fwd · till <date>". |
 | D1519 | 29 Oct 26 | On a phone the Leave War's Balances page shows nothing of its rows behind or through its bar, or between it and its row of column headings — at every zoom and every scroll position, at rest and while the fingers move; D1505's fix, checked only in test browsers that never drew the spill, is redone so it holds at all of them. |
 | D1517 | 29 Oct 26 | Between a phone and a desktop — up to 1100 wide, an iPad or a narrow window — the Leave War's Events list keeps its one-list width and its two lists stand one under the other, as on a phone; above 1100 they stand side by side in the window twice as wide. |
 | D1516 | 29 Oct 26 | The Leave War's Events list is built as redrawn on 29 Oct 26: Squadron events first (on a desktop the left list, on a phone the top one), then Holidays; the ✕ asks once — its first press arms it, a second deletes. |
